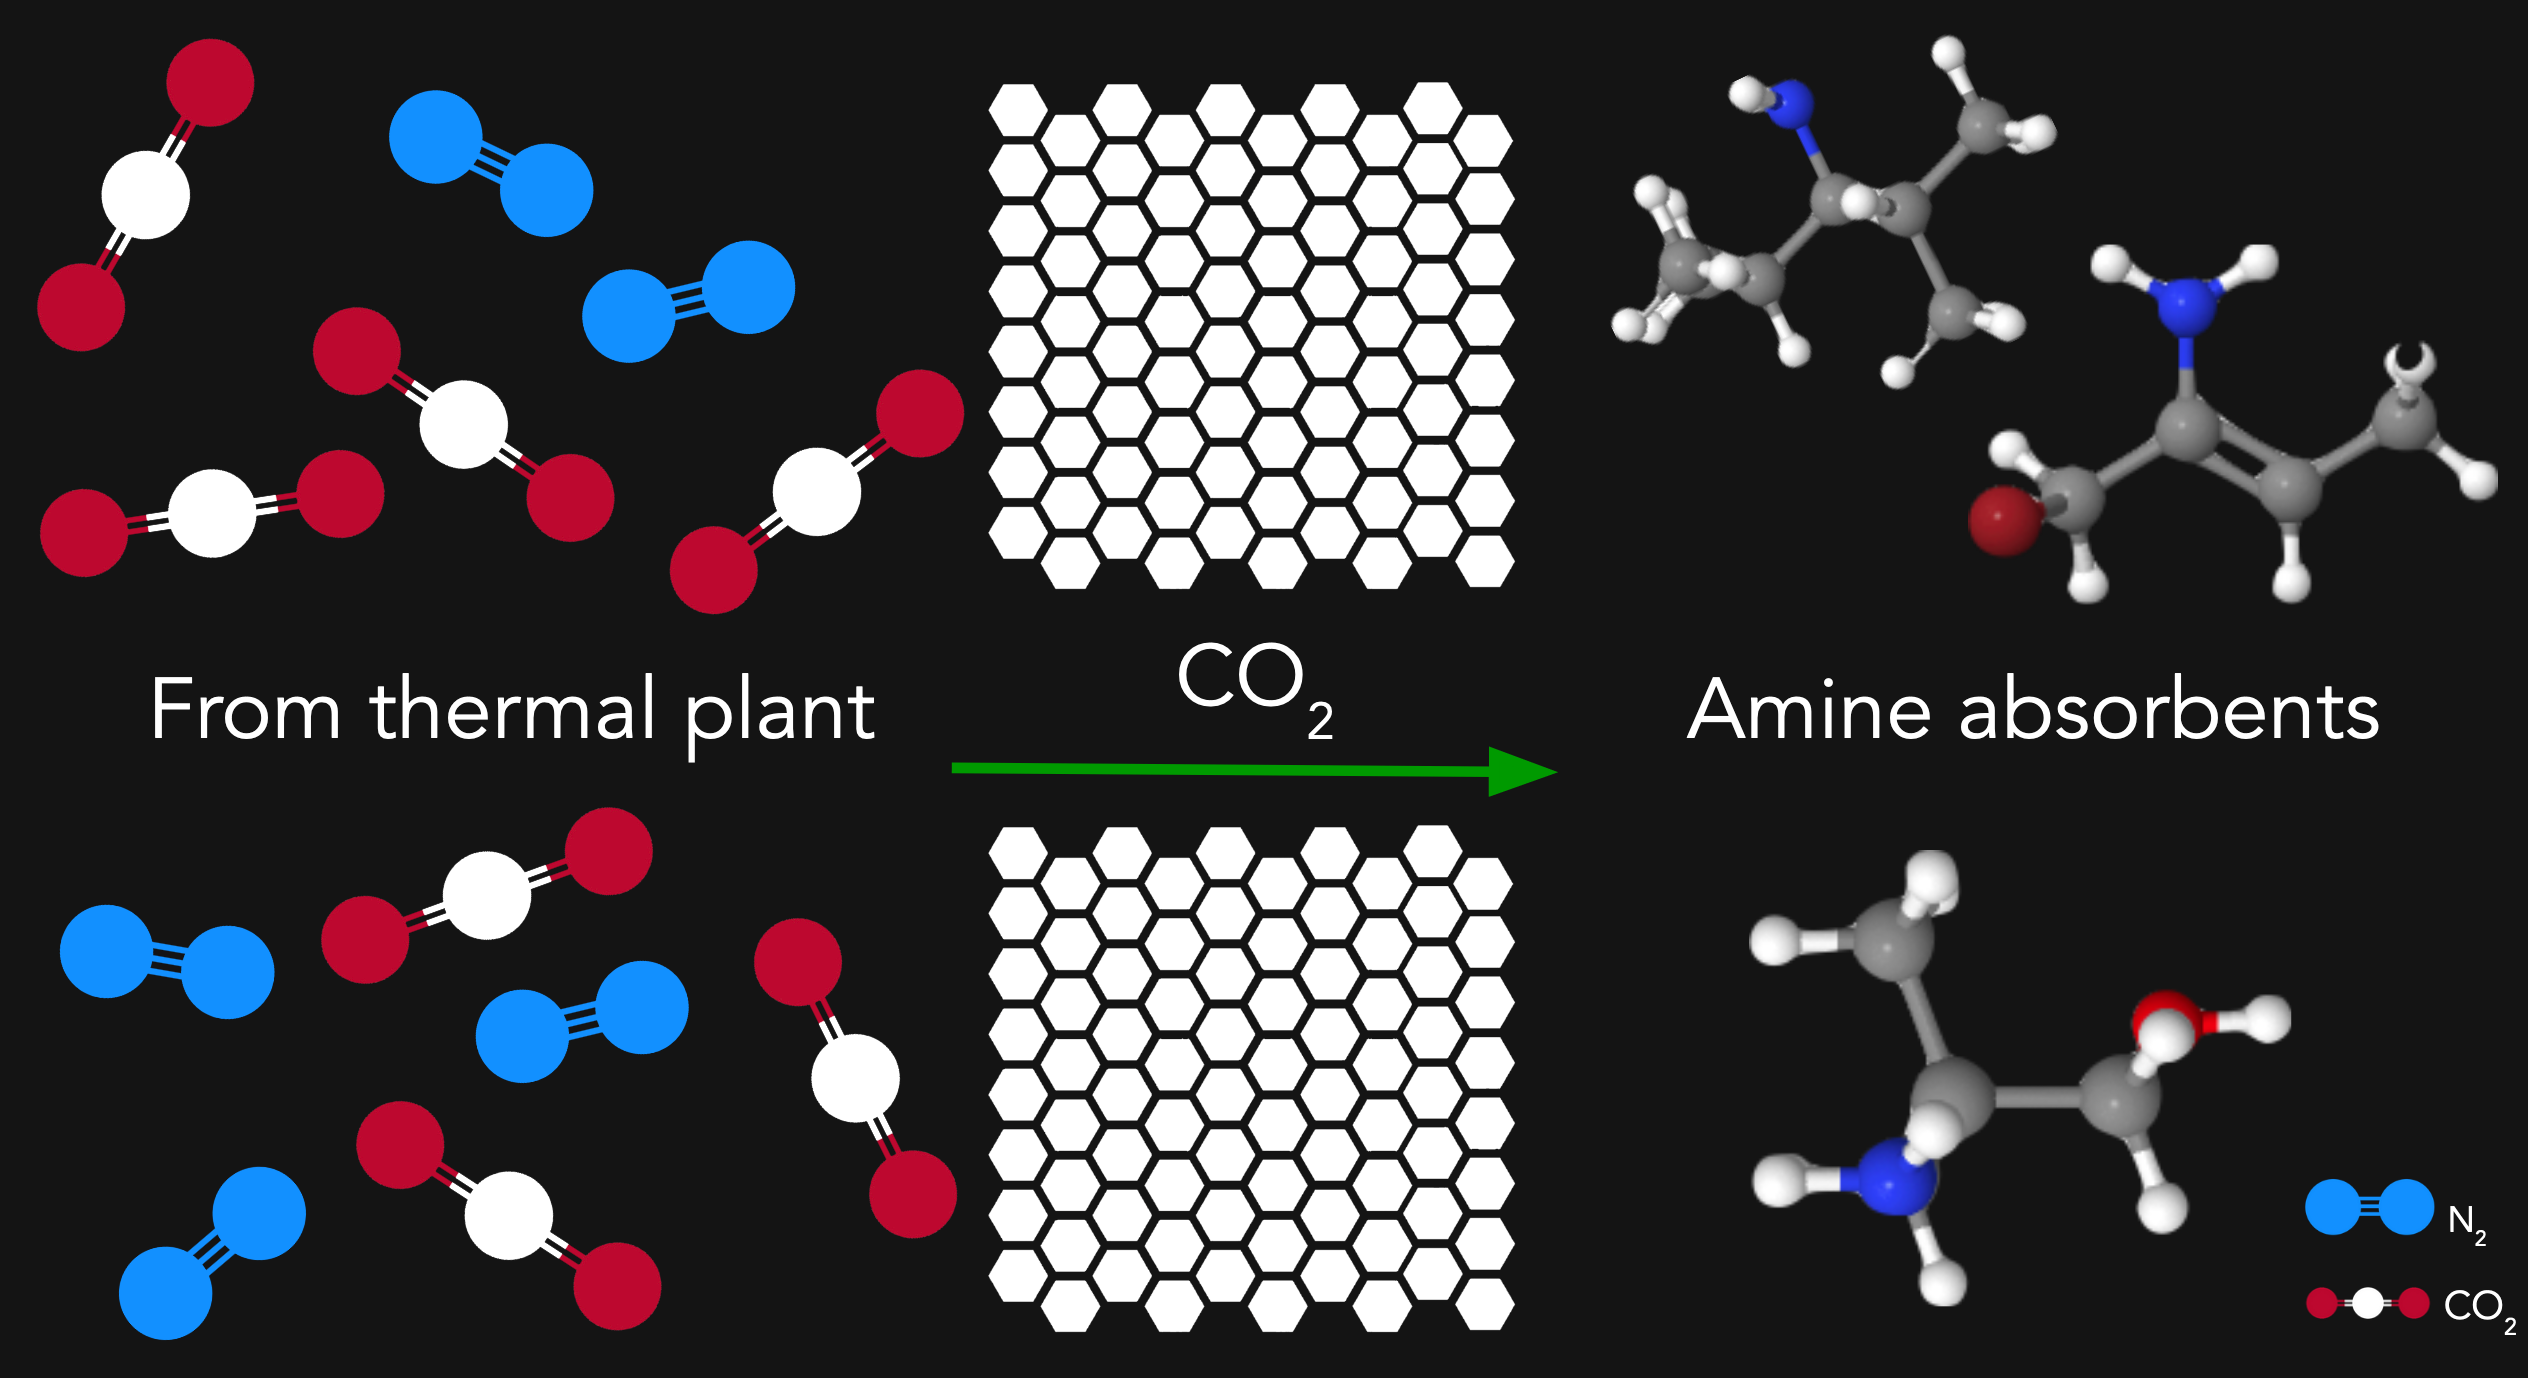
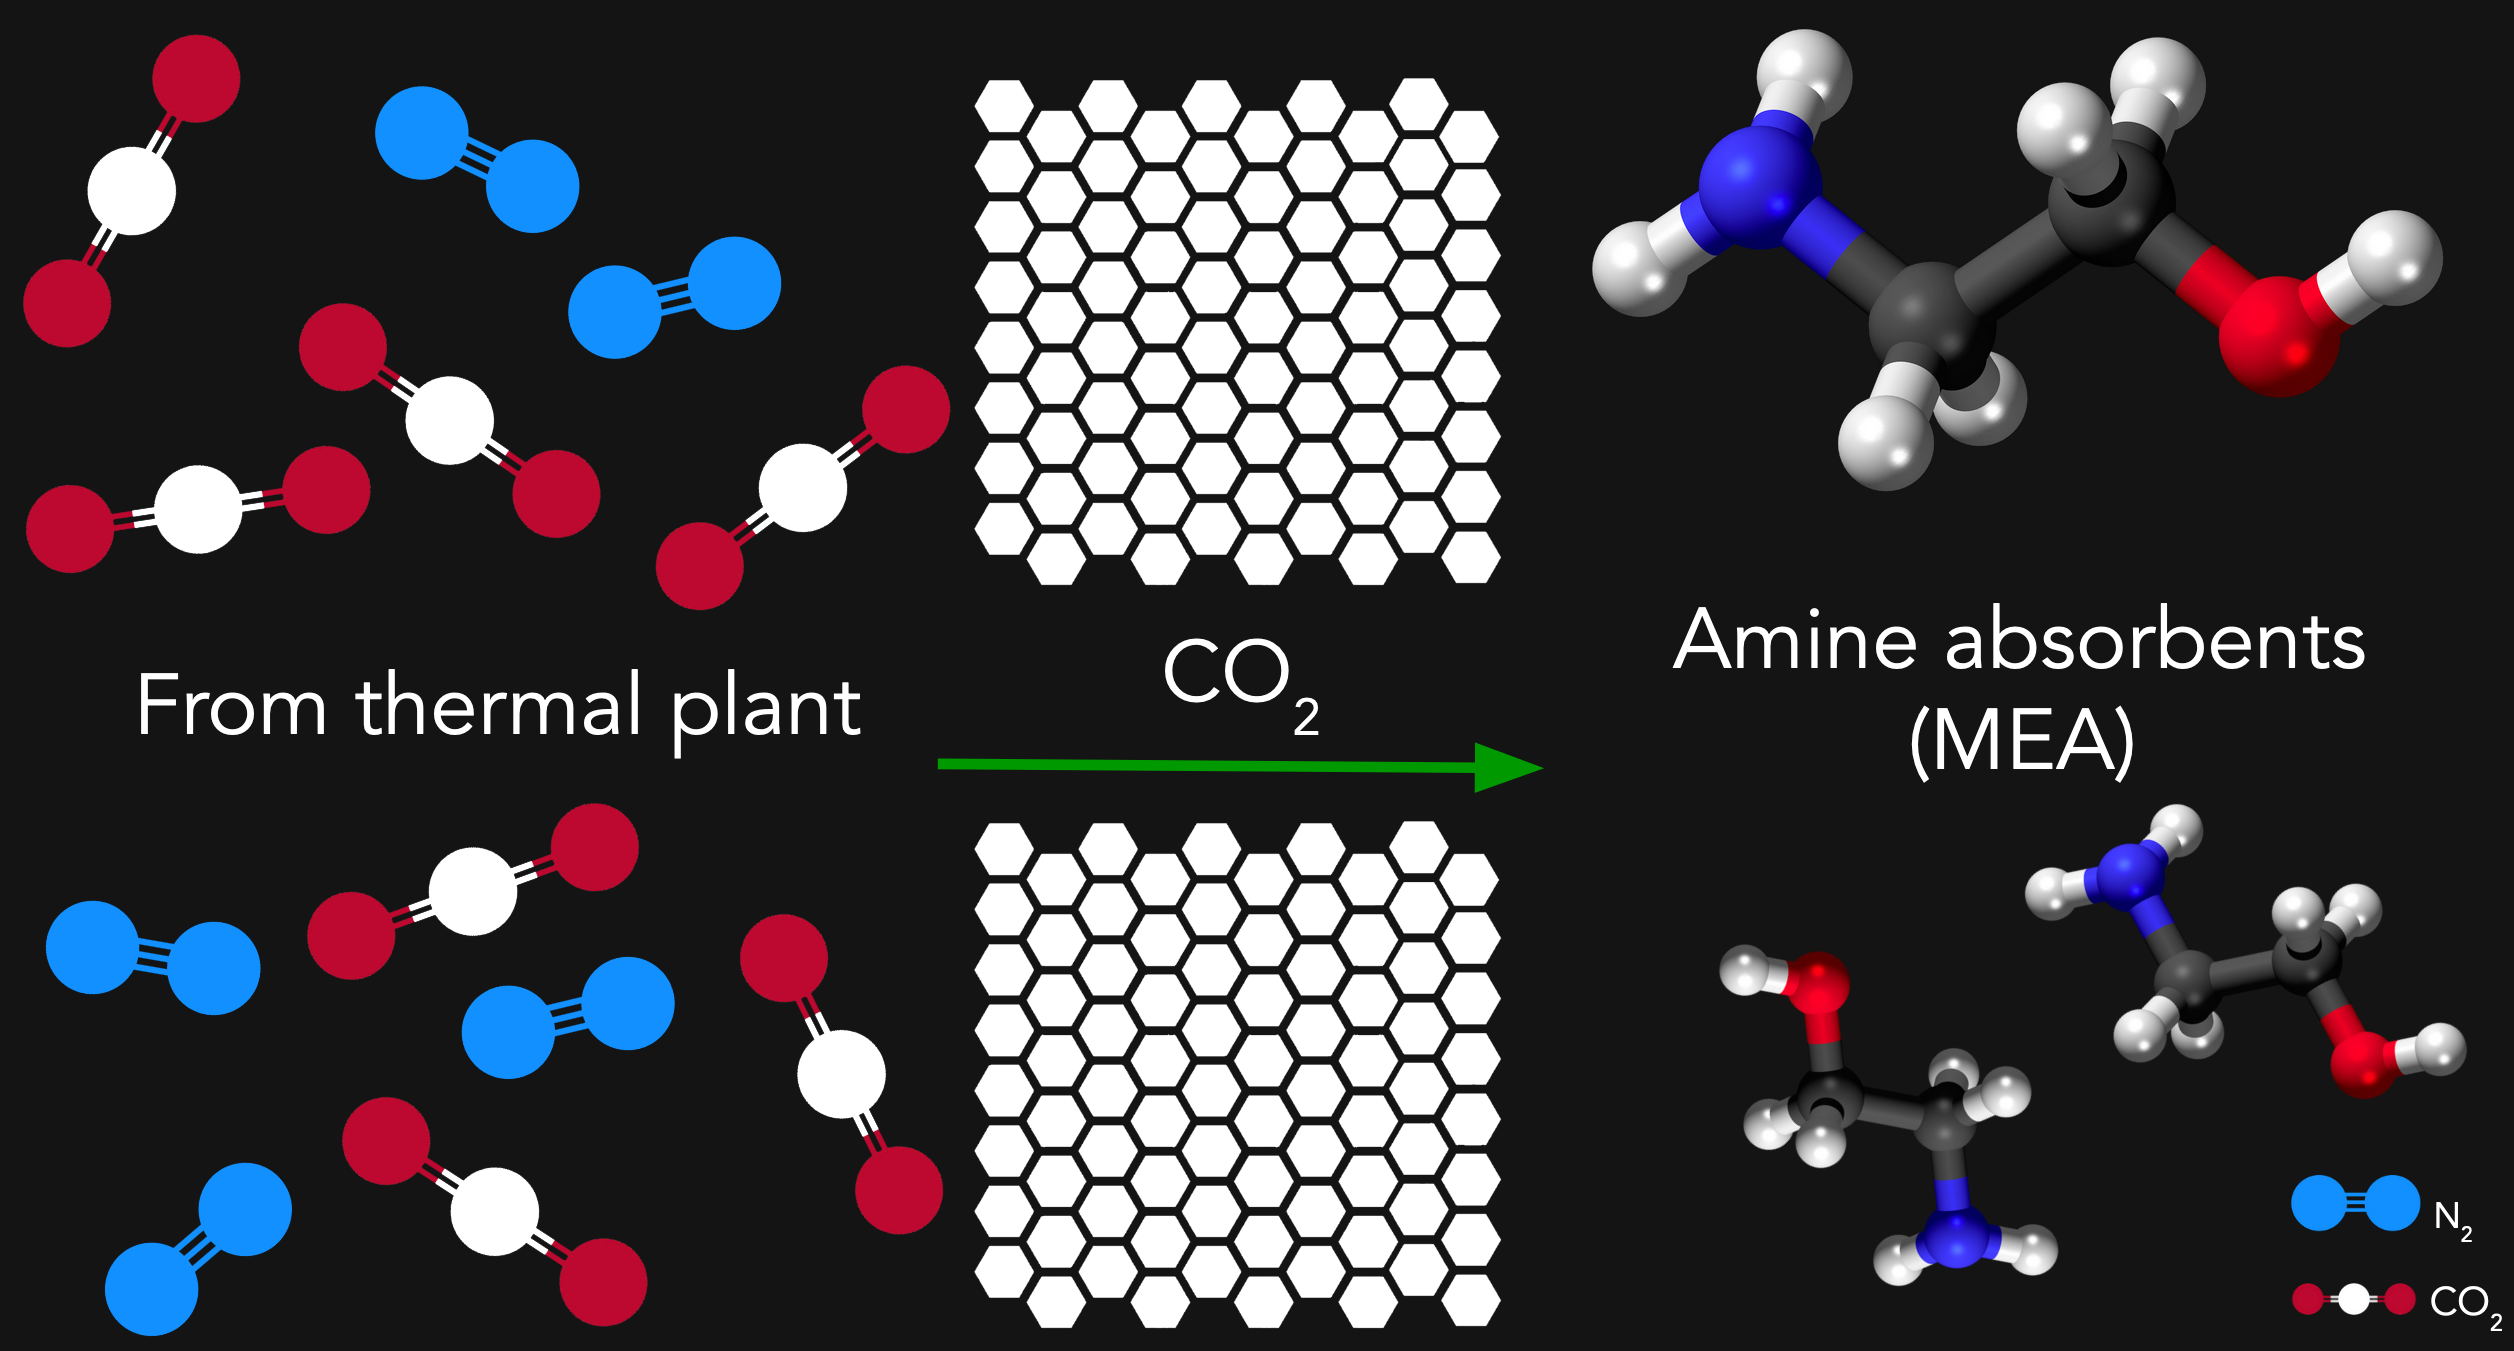
Absorption mechanism (1)

diff --git a/chemcomm/cost.html b/chemcomm/cost.html
@@ -72,17 +72,14 @@
                 </table>
                 <h3 align="center">Feasibility of the reaction</h3>
                 <p class="content">
-                    It is commerically viable to use 2-aminoethan-1-ol as the amine solvent. 2-aminoethan-1-ol can act as an amine solvent and as a Brønsted-Lowry Base.
+                    It is commerically viable to use 2-aminoethan-1-ol as the amine solvent. 2-aminoethanol can act as an amine solvent and as a Brønsted-Lowry Base.
                     The activation energy of the reaction is also known to be very low at 7.87 kJ mol<sup>-1</sup>, showing that the reaction is feasible.
                 </p>
                 <img src="img/activation energy.png" class="img-fluid custom-img1" />
                 <p class="content" style="padding-top: 20px;">
-                    The low activation energy can be attributed to the reaction of CO<sub>2</sub> and amine occuring with the aid of base amine.<br/>
-                    The oxygen atom of hydroxyl part acted very similarly to the nitrogen atom of amino part as a nucleophile. The CO<sub>2</sub> approached to the oxygen atom of hydroxyl part and C–O bond was formed.
-                    During these changes, a proton of the hydroxyl part moves to the oxygen atom of CO<sub>2</sub> or a base. The hydroxyl part of the additional molecule acted as a catalyst similar to a water that transfers proton from amine to CO<sub>2</sub>.
-                    The chemical equation below shows the chemical equation of the reaction occuring.
+                    The low activation energy can be attributed to the reaction of CO<sub>2</sub> and amine occuring with the aid of base amine.
+                    The mechanism of absorption of CO<sub>2</sub> by 2-aminoethanol (also known as monoethanolamine or MEA) is explained in <a href="absorption.html">this section</a>.
                 </p>
-                <img src="img/zwitterion reaction.png" class="img-fluid custom-img1" />
                 <h3 align="center" style="margin-top: 20px;">Monetary Cost</h3>
                 <table class="table table-bordered" style="table-layout: fixed; margin-top: 20px;">
                   <thead>

diff --git a/chemcomm/absorption.html b/chemcomm/absorption.html
@@ -52,15 +52,23 @@
                   <tbody>
                     <tr>
                       <td class="align-middle fix-col" >Contains mainly <b>carbon dioxide</b> and other gases such as nitrogen gas</td>
-                      <td class="align-middle fix-col" >Contains <b>amine absorbents</b> to react with carbon dioxide gas. </td>
-                    </tr>
-                    <tr>
-                        <td colspan="2">Reaction: <b>NR<sub>1</sub>R<sub>2</sub>H (aq) + CO<sub>2</sub> (g) ⇌ N(R<sub>1</sub>R<sub>2</sub>H)(COO) (aq)</b><br/>
-                            Through a reversible reaction, carbon dioxide reacts with the amine solvent to form a carbamate.
-                        </br/></td>
+                      <td class="align-middle fix-col" >Contains <b>amine absorbents</b> <br />(2-aminoethanol, MEA in short) to react with carbon dioxide gas. </td>
                     </tr>
                   </tbody>
                 </table>
+                <!--
+                Explanation of the reaction
+                -->
+                <h3 align="center">Reaction Mechanism</h3>
+                <p class="content">
+                    The equation of the reversible reaction is as follows: CO<sub>2</sub> + 2RNH<sub>2</sub> ⇌ RNHCOO + RNH<sub>3</sub><sup>+</sup> (Reaction 1),
+                    where R stands for the -CH<sub>2</sub>CH<sub>2</sub>OH group. A zwitterion intermediate is formed.
+                </p>
+                <img src="img/zwitterion carbamate.png" class="img-fluid custom-img1" />
+                <p class="content">
+                    Besides that, 2 alternate reactions can take place, which explains a low activation energy of the reversible reaction of carbon dioxide and MEA.
+                    
+                </p>
             </div>
         </main>
         <!-- /.container -->

diff --git a/chemcomm/absorption.css b/chemcomm/absorption.css
@@ -67,6 +67,10 @@ table {
   h2 {
     font-size: 160%;
   }
+  h3 {
+      font-size: 140%;
+      font-weight: 450;
+  }
   h5 {
      font-size: 140%;
   }
